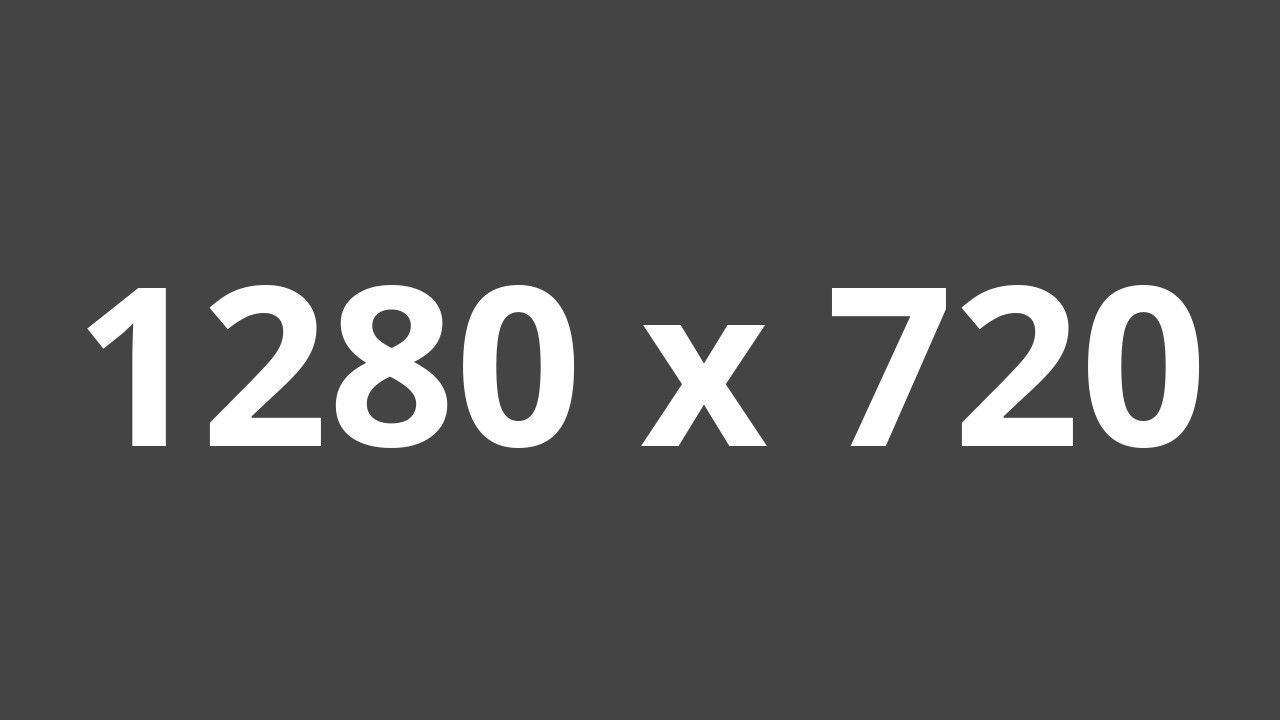
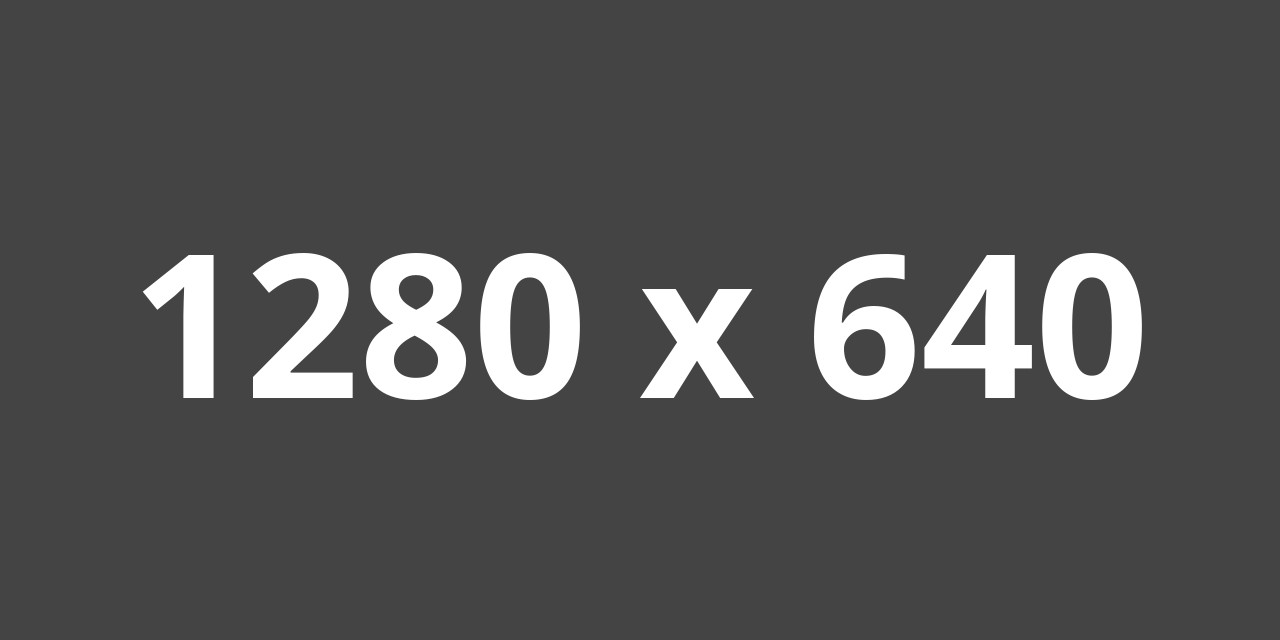
adjusts title image size

diff --git a/css/main.scss b/css/main.scss
@@ -6,7 +6,10 @@
 html {
   -webkit-font-smoothing: antialiased;
   -moz-osx-font-smoothing: grayscale;
-  font-size: 18px;
+  font-size: 16px;
+  @include media-query(DESKTOP) {
+    font-size: 18px;
+  }
 }
 
 body {
@@ -61,7 +64,7 @@ a {
 
 .section {
   width: 100%;
-  border-bottom: 2px #444 solid;
+  border-bottom: 4px #444 solid;
   padding: 24px 12px;
 
   .section-title {
@@ -81,13 +84,15 @@ a {
     padding: 8px 16px;
     margin: 0 8px;
     color: #fff;
-    background-color: #000;
+    font-size: 1.5rem;
+    background-color: #222;
+    border: 1px #000 solid;
     border-radius: 10px;
-    box-shadow: 4px 4px 12px #888;
+    box-shadow: 6px 6px 12px #888;
     transition: box-shadow $TRANSITION-PERIOD linear;
 
     &:hover {
-      box-shadow: 2px 2px 12px #888;
+      box-shadow: 3px 3px 12px #888;
     }
   }
 
@@ -107,11 +112,16 @@ a {
     position: relative;
     display: block;
     width: 100%;
-    padding-bottom: 56%;
-    background-image: url('{{ site.baseurl }}/media/images/cover.jpg');
+    padding-bottom: 128%;
+    background-image: url('{{ site.baseurl }}/media/images/title.jpg');
     background-position: center;
     background-repeat: no-repeat;
-    background-size: contain;
+    background-size: cover;
+    
+    @include media-query(DESKTOP) {
+      background-size: contain;
+      padding-bottom: 50%;
+    }
   }
 
   .title-text {
@@ -126,6 +136,10 @@ a {
       font-size: 60px;
     }
   }
+}
+
+.footer-line + .footer-line {
+  margin-top: 18px;
 }
 
 i.fa-1_5x {

diff --git a/_includes/footer.html b/_includes/footer.html
@@ -1,7 +1,4 @@
 <section class="section footer">
   <div class="footer-line">{{ site.title }}</div>
-  <a class="footer-line" href="{{ site.social.envelope-o }}" target="_blank">{{ site.social.envelope-o | replace: 'mailto:',''}}</a>
-  <div class="footer-line">
-    {% include social-icons.html %}
-  </div>
+  <div class="footer-line">{% include social-icons.html %}</div>
 </section>
